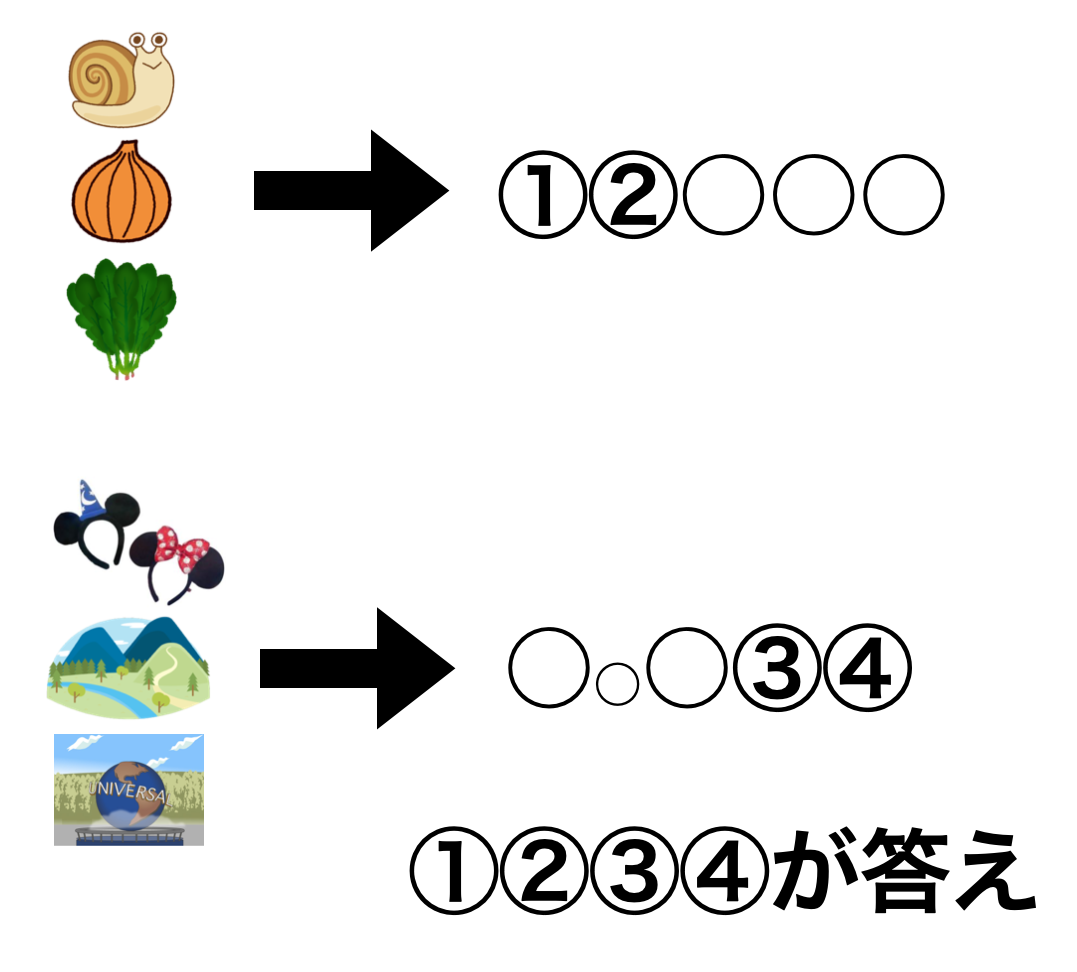
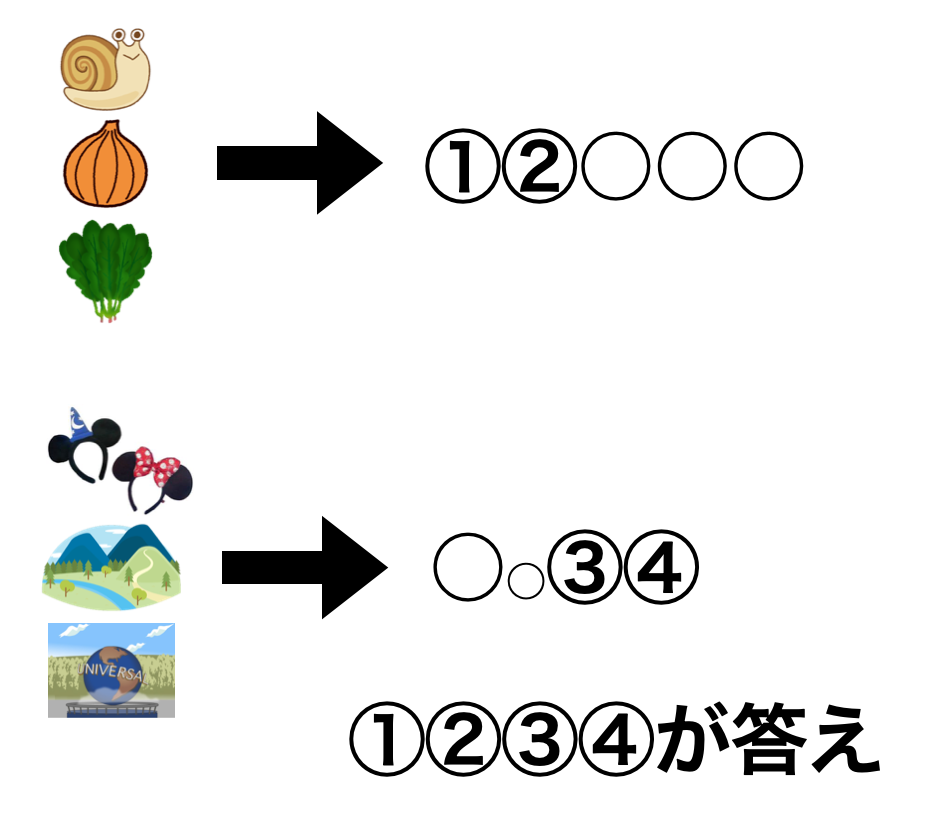
謎改定

diff --git a/messages.js b/messages.js
@@ -213,6 +213,11 @@ const MESSAGES = {
     from: "新婦より"
   },
 
+  "川本浩太郎": {
+    message: "川本祝電までありがとう！\n元気な子が生まれることを願ってます！！\nこれから色々大変だと思うけど頑張って！！\n\nまた飲みながら色々話しましょうや！",
+    from: "新郎より"
+  },
+
 
   /* ▼ 続きはここに追加
   "佐藤 次郎": {